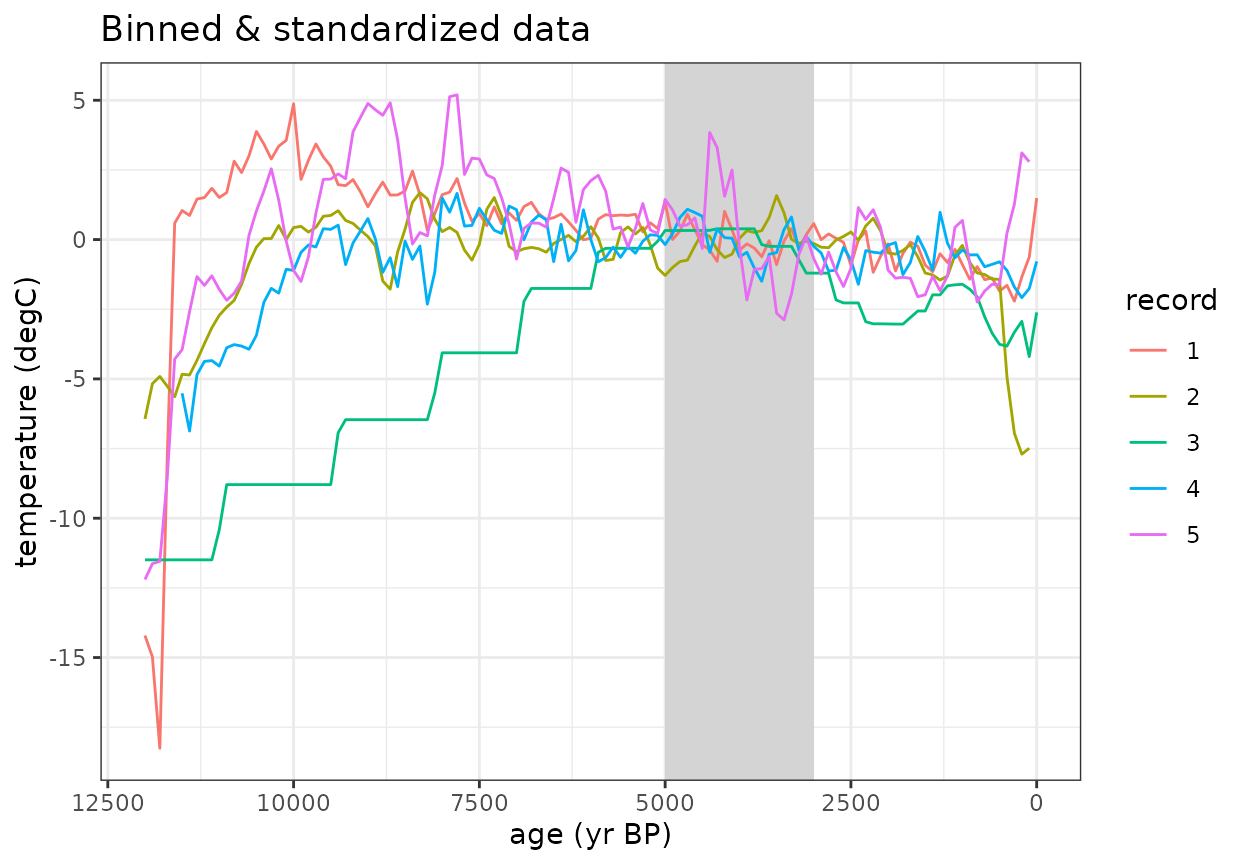
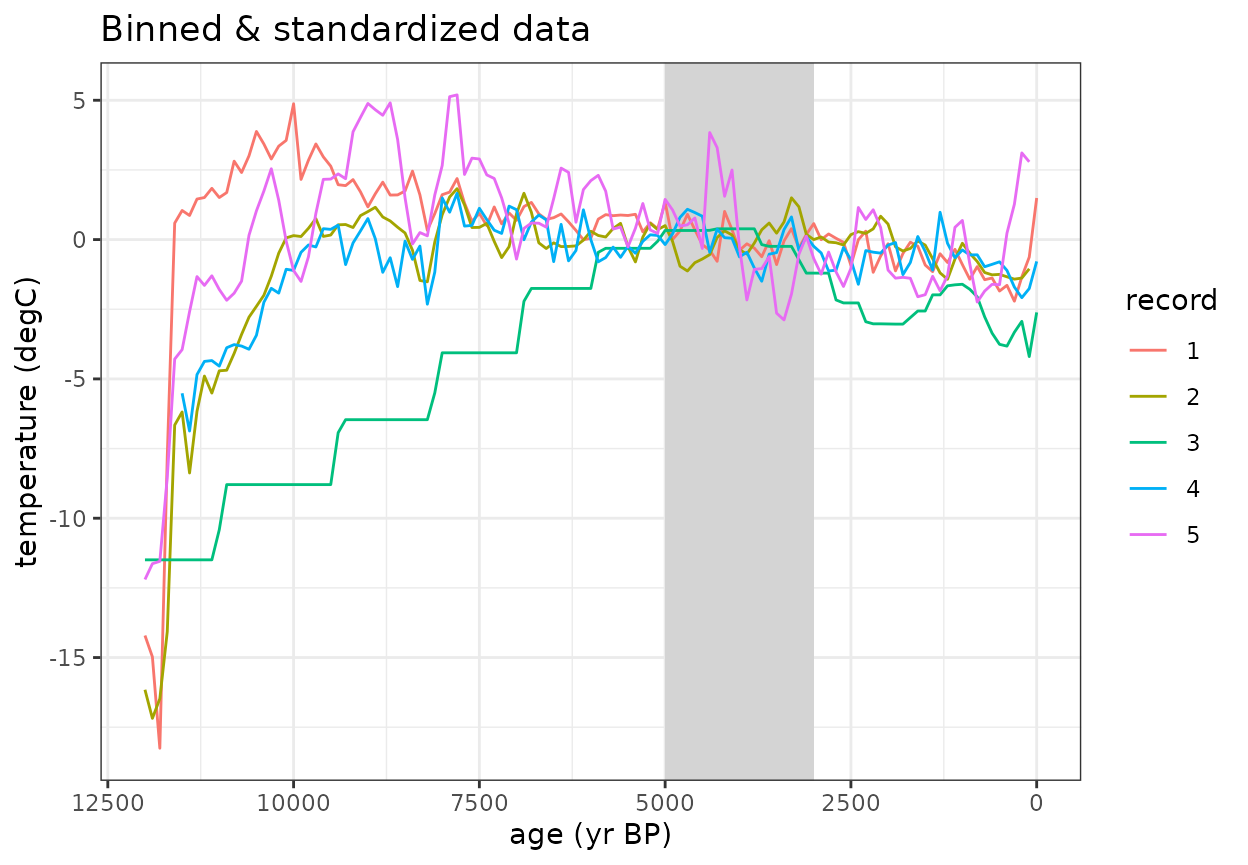
Deploying to gh-pages from @ clhancock/compositeR@bb07b1b68f37b18ca2c3d4d924e850fb52a520b4 🚀

diff --git a/articles/Temp12k_IceCore.html b/articles/Temp12k_IceCore.html
@@ -254,7 +254,7 @@ record to be included; default=8) so that all records are used.</li>
 <p><strong>Once the data are binned and standardized, use can calculate
 the composite mean</strong></p>
 <div class="sourceCode" id="cb7"><pre class="downlit sourceCode r">
-<code class="sourceCode R"><span><span class="co">#Calcualte weighted mean of standardized records</span></span>
+<code class="sourceCode R"><span><span class="co">#Calculate weighted mean of standardized records</span></span>
 <span><span class="va">compMean</span> <span class="op">&lt;-</span> <span class="fu"><a href="https://rdrr.io/r/base/apply.html" class="external-link">apply</a></span><span class="op">(</span><span class="va">stanMat</span>,<span class="fl">1</span>,<span class="va">mean</span>,na.rm<span class="op">=</span><span class="cn">T</span><span class="op">)</span></span>
 <span><span class="co">#Plot the binned data with composite mean</span></span>
 <span><span class="fu"><a href="https://ggplot2.tidyverse.org/reference/ggplot.html" class="external-link">ggplot</a></span><span class="op">(</span><span class="va">fTS_df_standardized</span>, <span class="fu"><a href="https://ggplot2.tidyverse.org/reference/aes.html" class="external-link">aes</a></span><span class="op">(</span>x <span class="op">=</span> <span class="va">age</span>, y <span class="op">=</span> <span class="va">paleoData_values</span>, color <span class="op">=</span> <span class="fu"><a href="https://rdrr.io/r/base/factor.html" class="external-link">factor</a></span><span class="op">(</span><span class="va">record</span><span class="op">)</span><span class="op">)</span><span class="op">)</span> <span class="op">+</span></span>
@@ -309,17 +309,17 @@ sampleEnsembleThenBinTs</strong></p>
 <span></span>
 <span><span class="fu"><a href="../reference/printComposite.html">printComposite</a></span><span class="op">(</span><span class="va">ensOut</span><span class="op">)</span></span>
 <span><span class="co">#&gt; Composite created for ages: <span style="color: #00BB00;">0-12000</span> yr BP at <span style="color: #00BB00;">100</span> year resolution</span></span>
-<span><span class="co">#&gt; <span style="color: #00BB00;">5</span> proxy records used. The maximum data density occurs between <span style="color: #00BB00;">100-9800</span> yr BP</span></span>
+<span><span class="co">#&gt; <span style="color: #00BB00;">5</span> proxy records used. The maximum data density occurs between <span style="color: #00BB00;">100-11500</span> yr BP</span></span>
 <span><span class="co">#&gt; <span style="color: #00BB00;">50</span> ensembles generated</span></span>
-<span><span class="co">#&gt; The maximum median value occurs at <span style="color: #BB0000;">8200</span> yr BP.</span></span>
-<span><span class="co">#&gt; The minimum median value occurs at <span style="color: #0000BB;">500</span> yr BP.</span></span>
-<span><span class="co">#&gt;   age median count</span></span>
-<span><span class="co">#&gt; 1   0  -1.50     3</span></span>
-<span><span class="co">#&gt; 2 100  -4.58     5</span></span>
-<span><span class="co">#&gt; 3 200  -4.44     5</span></span>
-<span><span class="co">#&gt; 4 300  -5.42     5</span></span>
-<span><span class="co">#&gt; 5 400  -6.03     5</span></span>
-<span><span class="co">#&gt; 6 500  -6.08     5</span></span>
+<span><span class="co">#&gt; The maximum median value occurs at <span style="color: #BB0000;">7900</span> yr BP.</span></span>
+<span><span class="co">#&gt; The minimum median value occurs at <span style="color: #0000BB;">12000</span> yr BP.</span></span>
+<span><span class="co">#&gt;   age  median count</span></span>
+<span><span class="co">#&gt; 1   0 -0.5655     3</span></span>
+<span><span class="co">#&gt; 2 100 -0.9123     5</span></span>
+<span><span class="co">#&gt; 3 200 -0.8620     5</span></span>
+<span><span class="co">#&gt; 4 300 -1.6259     5</span></span>
+<span><span class="co">#&gt; 5 400 -1.6458     5</span></span>
+<span><span class="co">#&gt; 6 500 -1.7339     5</span></span>
 <span><span class="co">#TODO why is this plotting twice?</span></span>
 <span><span class="fu"><a href="../reference/plotComposite.html">plotComposite</a></span><span class="op">(</span><span class="va">ensOut</span><span class="op">)</span></span></code></pre></div>
 <p><img src="Temp12k_IceCore_files/figure-html/unnamed-chunk-10-1.png" width="624"><img src="Temp12k_IceCore_files/figure-html/unnamed-chunk-10-2.png" width="624"></p>
